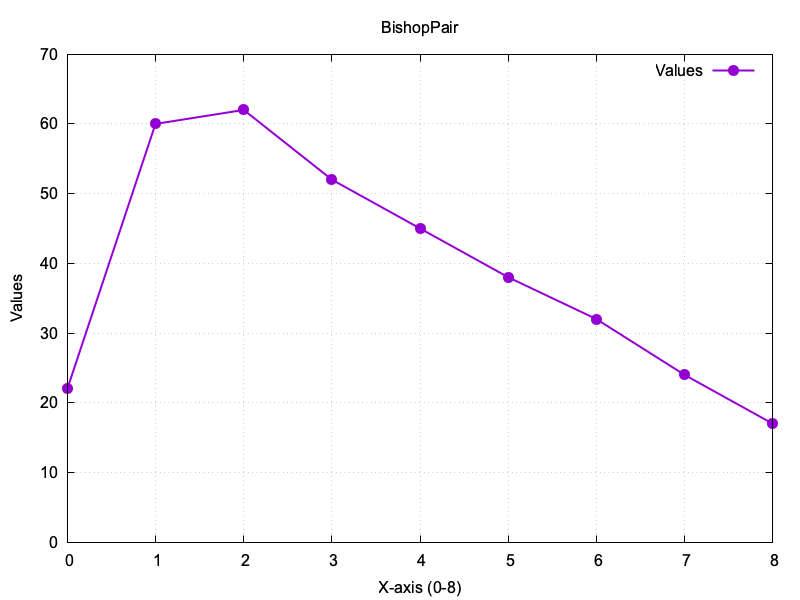
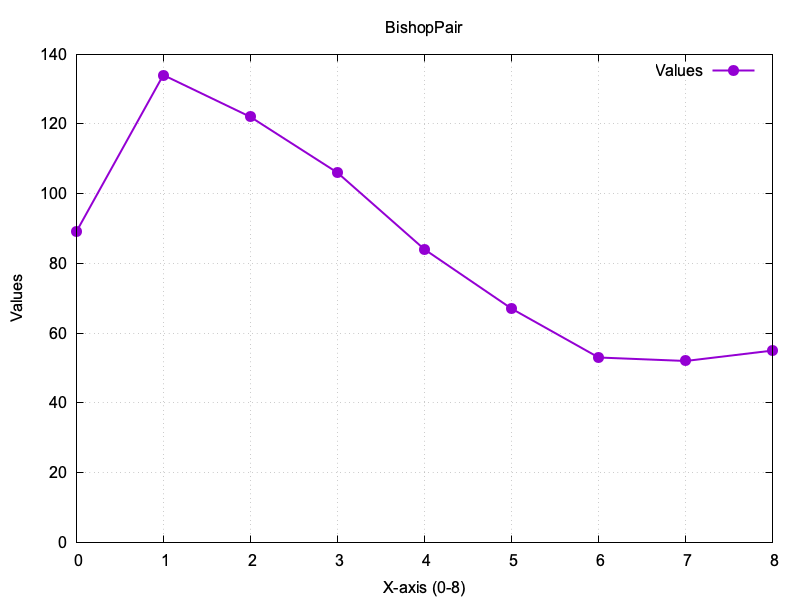
try lichess eval db

diff --git a/eval/coeffs.go b/eval/coeffs.go
@@ -1,8 +1,8 @@
 package eval
 
 // this file is autogenerated by chess-3/tools/tuner
-// epoch: 40, mse: 0.099923 E12.all.epd
-// 2025-10-31 13:52:34.032411449 +0100 CET m=+143464.464935699
+// epoch: 8, mse: 0.083131 lichess.eval.3X15m.margin150.epd
+// 2025-11-01 16:33:32.696640066 +0100 CET m=+20024.699570102
 
 import (
 	. "github.com/paulsonkoly/chess-3/types"
@@ -12,175 +12,175 @@ var Coefficients = CoeffSet[Score]{
 PSqT: [12][64]Score{
 	{
 		   0,    0,    0,    0,    0,    0,    0,    0,
-		  97,   97,   96,  108,  111,   57,  -72,  -55,
-		   5,   29,   42,   38,   55,  106,   56,   16,
-		   6,   17,   15,   30,   42,   44,   30,    8,
-		   2,    5,   10,   14,   20,   18,   19,    8,
-		   2,   -3,    1,    3,   13,   14,   24,   13,
-		  -1,   -5,  -10,   -5,   -6,   24,   33,    9,
+		  58,   52,   98,  121,   87,   65,  -19,  -78,
+		  59,   77,  102,  123,  128,  161,  180,   99,
+		   3,   14,   41,   45,   63,   71,   49,   38,
+		 -21,  -15,   -5,   22,   23,   17,   -1,   -6,
+		 -20,  -29,  -15,    0,   24,   -2,    5,    2,
+		 -18,  -16,  -32,  -21,   -2,   13,   16,   -8,
 		   0,    0,    0,    0,    0,    0,    0,    0,
 	},
 	{
 		   0,    0,    0,    0,    0,    0,    0,    0,
-		 124,  118,   95,   55,   46,   69,  122,  128,
-		  47,   33,    7,  -27,  -34,  -14,    5,   13,
-		  12,    2,  -10,  -33,  -28,  -23,  -10,  -10,
-		  -6,   -8,  -23,  -26,  -25,  -20,  -21,  -23,
-		 -14,  -17,  -18,  -20,  -14,  -14,  -26,  -29,
-		  -8,  -15,  -10,  -12,   -2,   -6,  -25,  -39,
+		 186,  188,  185,  136,  110,  159,  173,  176,
+		  76,   73,   42,   -9,   -8,   36,   41,   58,
+		  40,   17,   -5,  -51,  -37,   -6,   11,    6,
+		  -4,   -4,  -29,  -28,  -22,  -16,  -15,  -25,
+		 -16,  -16,  -31,  -16,   -2,  -15,  -22,  -37,
+		  -1,   -4,   -8,  -13,   34,    8,  -13,  -30,
 		   0,    0,    0,    0,    0,    0,    0,    0,
 	},
 	{
-		-171,  -98, -108,  -24,   17, -110,  -66, -144,
-		 -17,  -16,   25,   40,   33,   53,  -26,    5,
-		 -31,    6,   19,   28,   63,   51,   31,   11,
-		  -4,   -1,   13,   17,    9,   32,   13,   22,
-		 -12,   -3,    5,    3,   13,    9,   28,    2,
-		 -26,  -10,   -8,    4,    8,   -1,   -3,  -13,
-		 -37,  -33,  -20,   -7,  -11,   -7,  -18,  -14,
-		 -96,  -25,  -49,  -23,  -17,  -16,  -20,  -75,
+		   1,  -71,  -80,  -94,   37,  -95,  -45,  -24,
+		 -16,  -48,   53,   -1,  114,   32,   10,   18,
+		 -49,    0,  -15,   35,   12,   83,   27,   85,
+		 -39,  -27,  -33,   36,  -12,   24,  -13,   32,
+		 -64,  -58,  -24,  -40,  -13,    5,    5,  -40,
+		-111,  -70,  -58,  -49,  -18,  -48,  -33,  -72,
+		-144, -122,  -85,  -52,  -52,  -43,  -79,  -78,
+		-180, -103, -132, -102,  -88,  -77,  -84, -116,
 	},
 	{
-		 -48,    7,   32,   13,    9,   43,   11,  -56,
-		 -16,    3,    3,   31,   26,  -13,    5,  -16,
-		  -8,    6,   42,   40,   25,   34,    0,   -8,
-		   2,   17,   42,   53,   51,   41,   30,   13,
-		   5,   25,   52,   49,   53,   55,   31,   22,
-		 -27,    6,   17,   40,   36,   16,   10,  -10,
-		 -10,   11,   -3,   14,   18,   -5,    9,    4,
-		 -33,  -35,   -7,   10,    7,   -3,  -22,  -32,
+		-148,   49,   54,   44,   46,   37,   29, -139,
+		  -8,   25,   25,   94,   73,   42,  -11,  -18,
+		  43,   37,   89,   63,   60,   99,   33,   22,
+		  46,   21,   70,   65,   60,   61,   67,   31,
+		  30,   43,   63,   61,   63,   63,   48,   26,
+		 -27,   -4,   23,   64,   48,   11,    4,    1,
+		  -8,   18,   -4,   -1,    5,   -1,   20,   22,
+		 -47,  -81,   -5,   17,   32,   -7,  -69,  -18,
 	},
 	{
-		 -63,  -66, -122, -102,  -86, -121,  -19,  -56,
-		 -58,  -18,  -21,  -37,  -21,  -13,  -38,  -56,
-		 -16,   -5,   20,    9,   25,   33,   27,   -2,
-		 -27,    0,   -4,   26,    8,   11,   -4,  -17,
-		 -21,  -11,   -9,    1,    5,  -16,  -10,   -9,
-		 -19,   -8,  -11,  -10,  -13,  -10,   -9,   -3,
-		  -9,   -7,   -5,  -19,  -15,   -9,    5,   -3,
-		  -7,  -10,  -25,  -33,  -32,  -20,  -21,  -12,
+		 -10,  -65, -147, -260, -147, -168,  -83,    2,
+		 -70,  -26,  -21,  -87,  -83,  -73,  -80,  -18,
+		 -33,  -12,  -30,    4,  -36,  -11,   -6,    2,
+		 -36,  -36,  -31,   -7,  -18,  -19,  -36,  -62,
+		 -65,  -55,  -63,  -20,  -33,  -47,  -54,  -34,
+		 -24,  -47,  -41,  -52,  -43,  -47,  -44,  -14,
+		 -32,  -15,  -30,  -55,  -41,  -35,   -2,  -31,
+		 -53,  -10,  -43,  -81,  -75,  -55,  -25,  -84,
 	},
 	{
-		  36,   39,   42,   44,   37,   38,   23,   32,
-		  26,   28,   28,   28,   26,   26,   32,   24,
-		  19,   32,   25,   22,   22,   37,   29,   22,
-		  16,   28,   26,   33,   41,   27,   36,   22,
-		   7,   18,   32,   36,   33,   29,   18,    6,
-		   6,   17,   23,   25,   27,   18,   11,    8,
-		   2,   -1,    4,   13,   13,    3,    6,  -24,
-		  -7,    6,    4,    8,   13,   10,    5,   -2,
+		   3,   42,   72,   69,   62,   25,   56,  -26,
+		  31,   32,   19,   51,   48,   42,   23,  -24,
+		  42,   31,   49,   21,   45,   95,   53,   65,
+		  22,   50,   36,   67,   49,   38,   32,   37,
+		   5,   29,   52,   48,   41,   29,   22,  -31,
+		   6,   26,   40,   38,   42,   31,   -5,    9,
+		   1,    1,  -15,   -3,   -2,   -7,   34,  -35,
+		 -10,  -39,   -3,   -3,    8,    8,  -29,   27,
 	},
 	{
-		  45,   47,   25,   39,   39,   62,   68,   79,
-		   8,   -2,   25,   40,   36,   61,   15,   46,
-		 -11,   26,   18,   40,   62,   65,   84,   27,
-		 -16,   -6,    4,   24,   13,   21,   23,   14,
-		 -32,  -31,  -27,  -17,  -20,  -23,   -5,  -15,
-		 -35,  -27,  -29,  -19,  -21,  -24,   -1,  -21,
-		 -56,  -24,  -20,  -15,  -18,   -6,    3,  -49,
-		 -23,  -18,  -13,   -7,   -9,  -10,    2,  -19,
+		   3,   22,  -32,  -36,   21,  -14,   63,  139,
+		 -48,  -74,  -23,   -3,    2,   28,   10,   55,
+		 -70,  -53,  -60,  -37,  -15,   -3,   21,    1,
+		 -88,  -84,  -85,  -71,  -58,  -54,  -10,  -12,
+		-121, -140, -112, -108,  -93, -122,  -70,  -69,
+		-115, -100, -118, -119,  -90,  -99,  -35,  -33,
+		-134, -140, -107, -109,  -98,  -85,  -36,  -94,
+		-110,  -98,  -85,  -77,  -62,  -70,  -40,  -87,
 	},
 	{
-		  43,   48,   58,   51,   55,   53,   49,   46,
-		  46,   54,   51,   53,   54,   28,   42,   30,
-		  42,   30,   43,   30,   22,   30,   10,   28,
-		  32,   36,   39,   34,   35,   29,   22,   26,
-		  20,   35,   37,   31,   30,   31,   25,   16,
-		   2,   16,   16,   12,   14,   13,    8,   -1,
-		   5,   -1,    8,    4,    5,   -4,   -8,    6,
-		   2,   10,   13,    8,    7,   15,    4,  -10,
+		  66,   73,  107,  108,   88,   89,   65,   34,
+		  71,   85,   93,   89,   73,   64,   68,   37,
+		  71,   67,   78,   61,   28,   53,   37,   38,
+		  71,   66,   81,   56,   38,   57,   35,   26,
+		  52,   53,   48,   40,   21,   38,   14,    4,
+		   6,    1,   18,   10,   -3,    1,  -41,  -43,
+		  -1,   -3,    5,    9,   -2,  -19,  -51,  -18,
+		  23,    9,   23,   14,    4,   16,  -17,  -17,
 	},
 	{
-		 -25,    2,    3,   17,   30,   80,   39,   35,
-		 -18,  -43,   -5,  -31,  -20,   30,  -46,   14,
-		 -11,   -2,   -4,    3,    9,   54,   49,   24,
-		  -3,   -5,   -8,  -10,   -4,    3,   19,   15,
-		   1,    0,    0,   -4,   -4,    7,    8,   16,
-		  -3,    6,    7,    2,    5,    3,   16,   12,
-		   0,    7,   11,    9,   10,   22,   29,   13,
-		   5,    3,    8,   11,   13,  -12,    1,   -7,
+		 -31,  -31,   20, -235,   48,   99,   80,   39,
+		 -93, -110,  -97, -145, -127,    0,  -61,   36,
+		 -77, -109,  -37,  -69,  -25,   44,   35,   15,
+		-107, -104, -101,  -84,  -68,  -89,  -84,  -25,
+		 -68, -118, -110,  -86,  -76, -103,  -69,  -53,
+		 -93,  -79,  -98, -104,  -99,  -90,  -67,  -49,
+		-100,  -88,  -81,  -70,  -68,  -61,  -34,   26,
+		-125, -103,  -91,  -77,  -71, -121,  -79,  -96,
 	},
 	{
-		  70,   70,   88,   99,  113,  102,  108,  105,
-		  41,   66,   60,  108,  149,  135,  138,   87,
-		  26,   33,   61,   70,  110,  119,  100,  100,
-		  11,   54,   49,   85,  106,  122,  106,   78,
-		  -4,   36,   38,   78,   69,   70,   48,   50,
-		 -18,    3,   29,   18,   19,   34,    1,  -14,
-		 -28,  -17,  -29,   -6,  -13,  -58,  -73,  -44,
-		 -29,  -42,  -39,  -19,  -40,  -37,  -65,  -21,
+		 -37,   33,   51,  283,  123,   75,   14,  -17,
+		  30,   80,  175,  244,  286,  239,  173,   59,
+		  22,  124,  106,  163,  189,  219,  128,  125,
+		  64,  123,  145,  157,  184,  187,  196,   71,
+		 -25,   71,  108,  142,   97,  123,   47,   28,
+		 -40,   -7,   80,   50,   82,   73,  -12,  -71,
+		 -51,  -39,  -22,  -29,   -6,  -62, -143, -174,
+		 -78,  -97,  -76,  -20, -112, -119, -158,  -33,
 	},
 	{
-		 145,  269,  239,  181,  135,  140,  135,  164,
-		  28,  131,  185,  172,  126,  143,   82,  -10,
-		  56,  144,  178,  140,  150,  166,  114,    5,
-		  32,   98,  109,   69,   79,   87,   62,  -32,
-		  14,   52,   82,   27,   43,   27,   28,  -51,
-		 -27,  -14,   -6,  -11,   -2,  -19,   -8,  -39,
-		   5,  -13,  -32,  -71,  -49,  -53,   -7,    8,
-		 -10,   26,   -9,  -71,  -30,  -76,   10,   17,
+		 102,   57,   41,  -76,  -31,   53, -139,  -34,
+		 -28,  -30,   -2,  -43,  -90,   -2,  -21, -205,
+		-109,   30,  -43, -137, -110,  -55,  -50, -303,
+		-333, -189, -198, -220, -294, -305, -383, -512,
+		-327, -193, -179, -178, -242, -264, -336, -457,
+		-185, -110, -111, -104,  -91, -151,  -98, -172,
+		  23,    2,   -1,  -23,  -27,    4,   40,   55,
+		 -18,  107,   87,  -33,   42,  -23,  100,   70,
 	},
 	{
-		-217, -112,  -78,  -44,  -50,  -50,  -50, -185,
-		 -42,   14,    1,  -11,    1,    8,   35,  -32,
-		   3,   28,   22,   20,   12,   34,   39,    2,
-		   2,   25,   35,   42,   38,   35,   30,    6,
-		 -21,   15,   28,   46,   39,   32,   14,   -6,
-		 -11,   10,   21,   34,   30,   21,    2,  -10,
-		 -12,   -1,   14,   21,   16,   17,   -7,  -33,
-		 -61,  -30,  -14,  -18,  -44,   -4,  -33,  -89,
+		-263,  -11,   51,   50,   59,   52,   32, -226,
+		 -24,  103,  139,  126,  137,  142,  122,   17,
+		  18,   99,  135,  145,  145,  147,  121,   65,
+		  32,   84,  120,  124,  130,  123,  115,   45,
+		  -7,   49,   75,   90,   85,   70,   49,   13,
+		 -37,   -1,   19,   29,   24,   16,  -18,  -50,
+		 -76,  -33,  -26,  -20,  -15,  -32,  -55, -105,
+		-116, -117,  -79,  -67,  -89,  -77, -110, -184,
 	},
 },
 PieceValues: [2][7]Score{
-	{    0,   59,  302,  308,  375,  838,    0},
-	{    0,  151,  396,  422,  761, 1470,    0},
+	{    0,   25,  232,  210,  217,  260,    0},
+	{    0,  204,  422,  465,  837, 1638,    0},
 },
-TempoBonus: [2]Score{    7,   12},
+TempoBonus: [2]Score{   60,   54},
 KingAttackPieces: [2][4]Score{
-	{    8,    8,   10,   16},
-	{  -51,   15,    5,  -81},
+	{    7,   11,   13,   12},
+	{    9,    7,    3,   35},
 },
 SafeChecks: [2][4]Score{
-	{    6,    4,    6,    5},
-	{   10,    2,    3,    7},
+	{   15,    3,   14,   10},
+	{    3,   19,    4,    1},
 },
-KingShelter: [2]Score{    7,    0},
+KingShelter: [2]Score{    8,    2},
 MobilityKnight: [2][9]Score{
-	{  -51,  -42,  -40,  -38,  -35,  -32,  -27,  -21,  -11},
-	{  -62,   -1,   29,   47,   57,   66,   65,   57,   39},
+	{ -146, -108,  -96,  -92,  -80,  -72,  -63,  -53,  -58},
+	{ -145,  -51,   21,   56,   84,  109,  113,  109,   95},
 },
 MobilityBishop: [2][14]Score{
-	{  -39,  -38,  -34,  -34,  -32,  -27,  -23,  -23,  -23,  -21,  -20,  -16,  -16,   24},
-	{  -28,   -4,    8,   22,   38,   51,   60,   68,   74,   74,   72,   71,   69,   50},
+	{ -107,  -93,  -81,  -72,  -61,  -60,  -50,  -44,  -46,  -41,  -36,  -30,  -15,   39},
+	{ -146,  -43,  -14,   22,   57,   88,  100,  112,  126,  119,  119,  117,  129,   85},
 },
 MobilityRook: [2][11]Score{
-	{  -21,  -17,  -18,  -15,  -14,   -8,   -3,    3,    4,    7,   29},
-	{   -2,    6,   22,   30,   43,   49,   54,   57,   62,   67,   54},
+	{ -115, -106,  -99,  -83,  -73,  -59,  -52,  -43,  -40,  -37,  -15},
+	{   -8,   25,   36,   42,   68,   80,   91,   92,   99,  108,   88},
 },
 KnightOutpost: [2][40]Score{
 	{
-		 -12,   22,   79,   73,   57,  100,  194,  -19,
-		  42,   13,   -5,   11,   53,  -18,   -2,  -19,
-		  12,   -3,   24,   16,    4,   36,   12,   45,
-		  11,   21,   26,   31,   39,   57,   41,   26,
-		   0,    0,    0,   31,   27,    0,    0,    0,
+		 -39,  -75,   53,  -69,  114,   74,    3,  -87,
+		  46,   18,  -28,   -8,    9,  -80,  -42,  -24,
+		   5,   17,   52,   33,   77,   71,   64,  -27,
+		  24,   22,   51,   23,   62,   51,   89,    9,
+		   0,    0,    0,   48,   54,    0,    0,    0,
 	},
 	{
-		 -39,   41,   13,   12,   13,   18,  -27,   45,
-		  14,   10,   17,   -5,   -9,   22,   27,   16,
-		  36,   47,   24,   28,   40,   36,   55,   25,
-		  18,   19,   24,   33,   37,   24,   21,   16,
-		   0,    0,    0,   23,   22,    0,    0,    0,
+		 -63,  -40,   24,  -48,   71,   50,  -64,   56,
+		  25,   11,   14,  -23,  -47,   13,   31,   62,
+		  12,  -29,    2,   17,   31,   24,   47,   64,
+		  -1,   15,   38,   60,   77,   57,    1,   62,
+		   0,    0,    0,   48,   52,    0,    0,    0,
 	},
 },
-ConnectedRooks: [2]Score{    2,   17},
-BishopPair: [9]Score{   22,   60,   62,   52,   45,   38,   32,   24,   17},
-ProtectedPasser: [2]Score{   18,    4},
-PasserKingDist: [2]Score{   -8,   11},
+ConnectedRooks: [2]Score{    3,   17},
+BishopPair: [9]Score{   89,  134,  122,  106,   84,   67,   53,   52,   55},
+ProtectedPasser: [2]Score{   37,    7},
+PasserKingDist: [2]Score{   11,   11},
 PasserRank: [2][6]Score{
-	{  -14,  -22,  -16,    9,   33,   62},
-	{   20,   21,   46,   70,  126,   84},
+	{  -10,  -35,  -10,    2,    2,   44},
+	{  -10,    8,   44,   80,  131,  168},
 },
-DoubledPawns: [2]Score{  -12,  -17},
-IsolatedPawns: [2]Score{  -10,  -16},
+DoubledPawns: [2]Score{  -13,  -64},
+IsolatedPawns: [2]Score{  -24,  -18},
 }

diff --git a/docs/eval/readme.md b/docs/eval/readme.md
@@ -84,7 +84,7 @@
 ![TempoBonus](tempobonus.png)
 
 
-Middle Game: 7 | End Game: 12
+Middle Game: 60 | End Game: 54
 
 
 ## KingAttackPieces
@@ -104,7 +104,7 @@ Middle Game: 7 | End Game: 12
 ![KingShelter](kingshelter.png)
 
 
-Middle Game: 7 | End Game: 0
+Middle Game: 8 | End Game: 2
 
 
 ## MobilityKnight
@@ -142,7 +142,7 @@ Middle Game: 7 | End Game: 0
 ![ConnectedRooks](connectedrooks.png)
 
 
-Middle Game: 2 | End Game: 17
+Middle Game: 3 | End Game: 17
 
 
 ## BishopPair
@@ -156,7 +156,7 @@ Middle Game: 2 | End Game: 17
 ![ProtectedPasser](protectedpasser.png)
 
 
-Middle Game: 18 | End Game: 4
+Middle Game: 37 | End Game: 7
 
 
 ## PasserKingDist
@@ -164,7 +164,7 @@ Middle Game: 18 | End Game: 4
 ![PasserKingDist](passerkingdist.png)
 
 
-Middle Game: -8 | End Game: 11
+Middle Game: 11 | End Game: 11
 
 
 ## PasserRank
@@ -178,7 +178,7 @@ Middle Game: -8 | End Game: 11
 ![DoubledPawns](doubledpawns.png)
 
 
-Middle Game: -12 | End Game: -17
+Middle Game: -13 | End Game: -64
 
 
 ## IsolatedPawns
@@ -186,6 +186,6 @@ Middle Game: -12 | End Game: -17
 ![IsolatedPawns](isolatedpawns.png)
 
 
-Middle Game: -10 | End Game: -16
+Middle Game: -24 | End Game: -18
 
 
